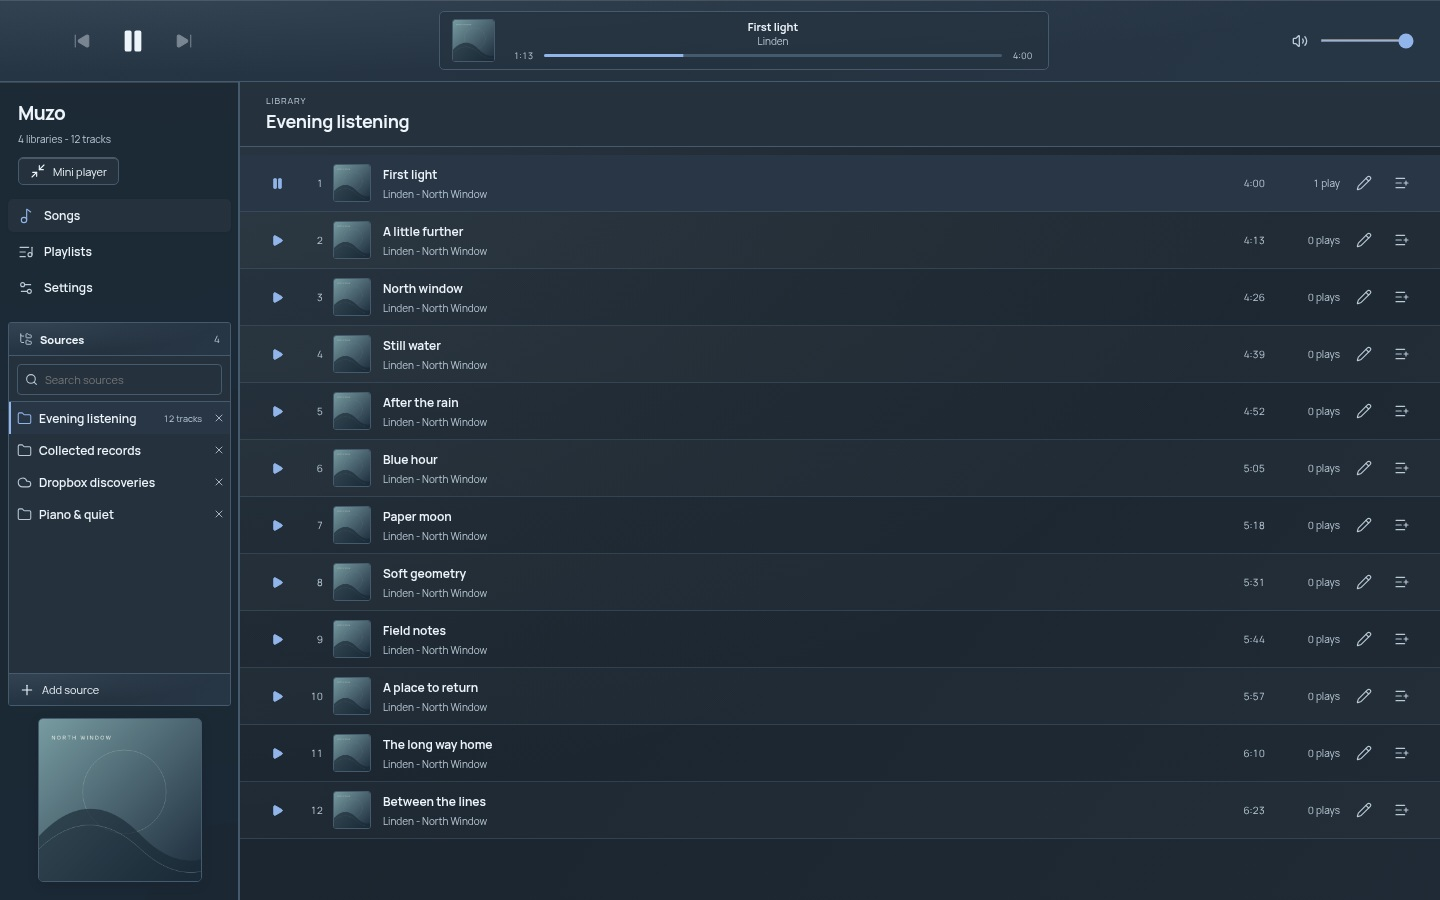
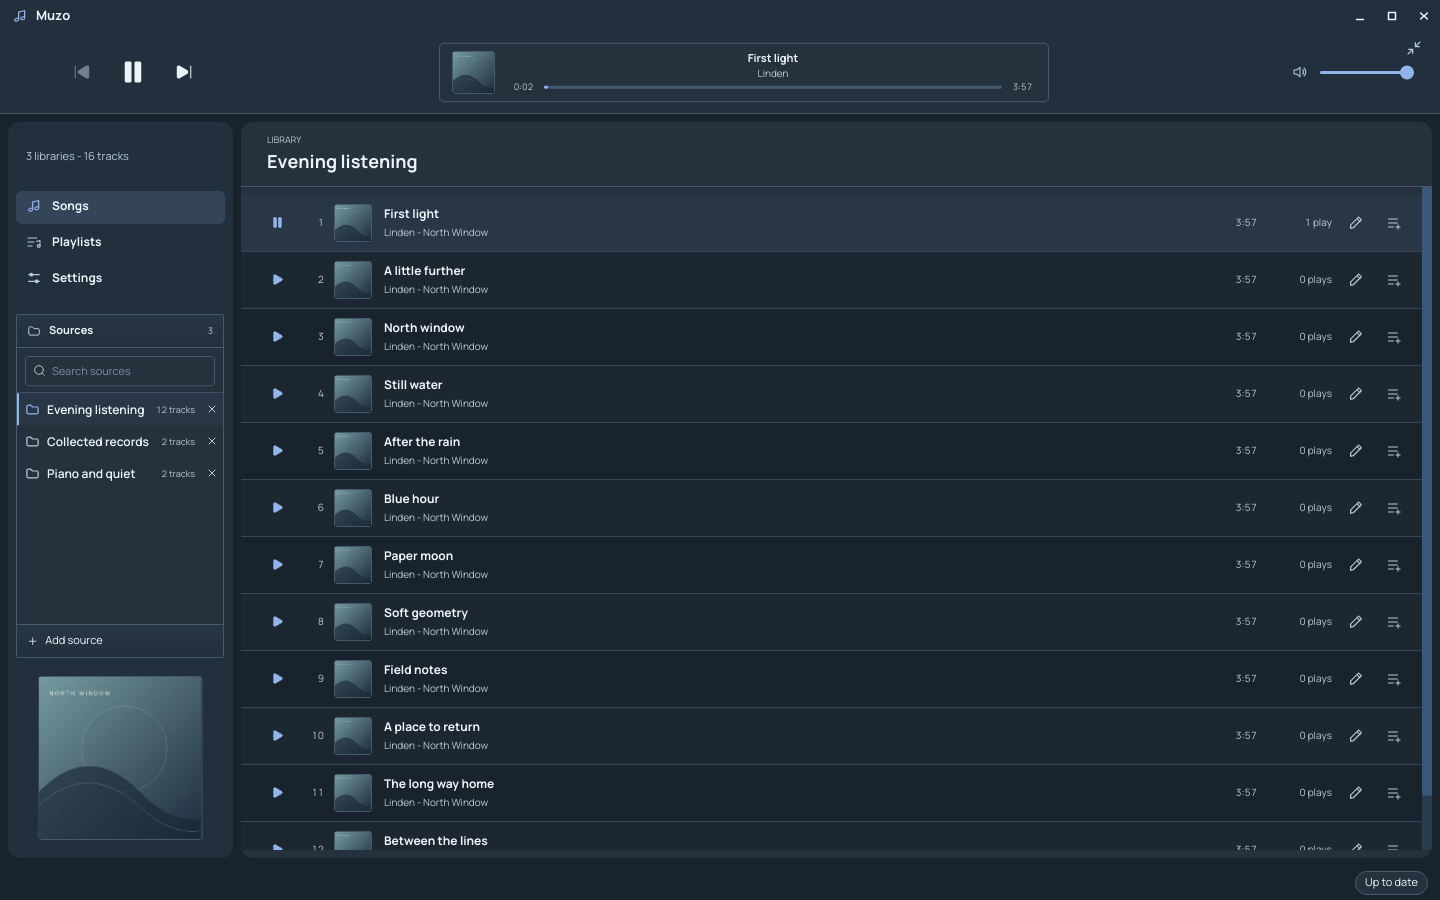
docs(site): show the Muzo 1.0.0 interface

diff --git a/docs/screenshots.md b/docs/screenshots.md
@@ -1,32 +1,10 @@
 # Desktop screenshots
 
-`site/public/images/muzo-player.jpg` is shared by the README and the project website.
-It shows the actual Electron desktop interface at 1440 x 900, using Frosted glass
-dark with a Cobalt accent, the compact-player toggle and full-width source rows.
+The README and website use two captures from the Muzo 1.0.0 AppImage. They were
+taken under Xvfb with disposable profiles, an isolated audio sink and fictional
+music metadata. The demo reuses the original North Window artwork.
 
-Both captures use the maintained native compact-player fixture in an isolated
-Electron profile, with fictional sources/tracks supplied through the runtime
-boundary. The original geometric North Window artwork is decoded through the
-app's normal artwork contract. No real audio plays, no Dropbox requests run and
-no user catalogue, credentials, local paths or copyrighted covers appear.
-These are product screenshots with demo data, not mockups of future features.
-
-`site/public/images/muzo-personalization.jpg` shows Settings at 1280 x 1000,
-with Brushed aluminium light and a Rose accent. It includes all seven materials,
-ten accents and a fictional connected Dropbox account. The aluminium surface
-uses the reviewed satin finish rather than the old striped texture.
-
-When refreshing, use the actual app components and an isolated profile/fixture.
-Select a source and start a demo track so the transport and sleeve are visible.
-Keep names generic, verify every cover loads, and wait for fonts, layout and
-colour transitions to settle. Capture the viewport without editing pixels or
-compositing the interface. Share the same canonical assets in README and site.
-
-The listening capture includes Card 038's seek-focus correction: a pointer click
-at 1:13 keeps the control focused without a blue rectangle. Keyboard focus remains
-visible. Files retain Electron capturePage's native JPEG encoding/dimensions.
-Vite's public/ unchanged-asset convention keeps sharing-image URLs stable.
-
-These refreshed captures reflect the combined preview of cards 040, 041, 042
-and 045 (compact player, satin aluminium, Frosted glass and full-width rows).
-Merge those feature PRs before the site that advertises this current interface.
+| Image | Window size | Appearance |
+| --- | --- | --- |
+| [Listening](../site/public/images/muzo-player.jpg) | 1440 × 900 | Frosted glass, dark, Cobalt |
+| [Settings](../site/public/images/muzo-personalization.jpg) | 1280 × 1000 | Brushed aluminium, light, Rose |
